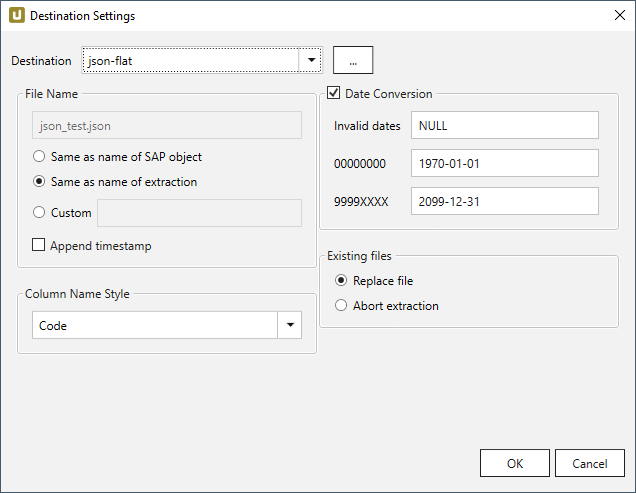
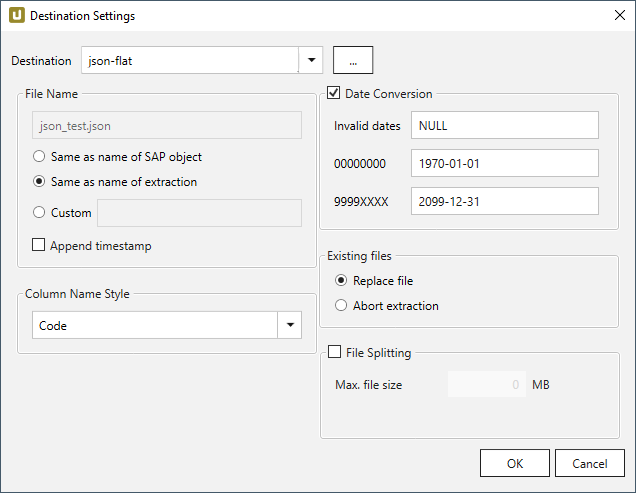
file splitting in json destination added
was missing

Changed region(s): [[0.5079, 0.6998, 0.6572, 0.7302], [0.5079, 0.7606, 0.6274, 0.7911], [0.8365, 0.7606, 0.8664, 0.7911]]

diff --git a/content/_de/xtract-universal/destinationen/json-flat-file.md b/content/_de/xtract-universal/destinationen/json-flat-file.md
@@ -68,3 +68,5 @@ Das Fenster "Destination Settings" besteht aus den folgenden Unterabschnitten:
 Die Option *Existing files* ist mit der Option *Directory* (Verzeichnis) verbunden, die in den [Destination Details](#destination-details---destinationendetails) definiert ist.<br>
 **Replace file** - ersetzt die vorhandene Datei in dem Verzeichnis, in dem die JSON-Datei gespeichert ist.<br>
 **Abort extraction** - bricht die Extraktion ab, wenn die JSON-Datei bereits im definierten Verzeichnis existiert.
+
+{% include _content/de/xu-specific/destinationen/general/file-splitting.md %}

diff --git a/content/_en/xtract-universal/destinations/json-flat-file.md b/content/_en/xtract-universal/destinations/json-flat-file.md
@@ -69,3 +69,5 @@ The window "Destination Settings" consists of the following subsections:
 The option *Existing files* is connected to the *Directory* option defined in the [Destination Details](#destination-details). <br>
 **Replace file** - replaces the existing file in the directory, where the flat file is saved. <br>
 **Abort extraction** - aborts the extraction, if the flat file already exists in the defined directory.
+
+{% include _content/en/xu-specific/destinations/general/file-splitting.md %}
